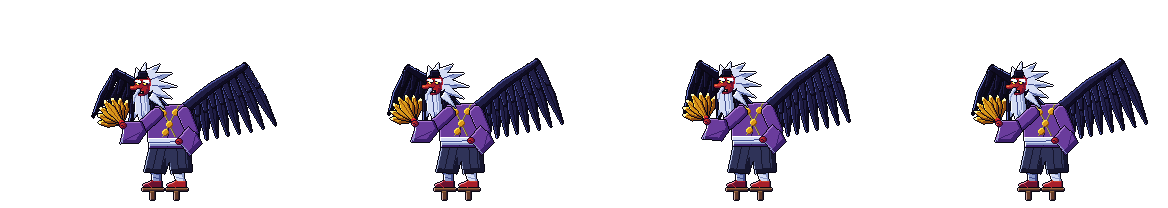
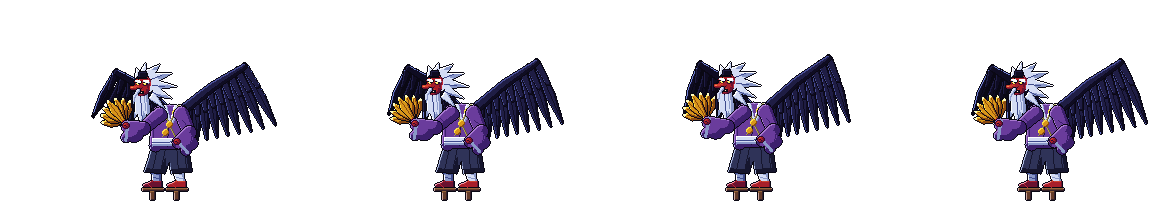
Sojobo überarbeitet: schlankeres Gewand mit V-Kragen und Falten, weich fallende Ärmel statt kantiger Blöcke
Claude-Session: https://claude.ai/code/session_01KhgxT7a5tRTGeQVFkHSAcV

diff --git a/art_src/fable/bosses_1/boss_sojobo.py b/art_src/fable/bosses_1/boss_sojobo.py
@@ -117,8 +117,8 @@ def geta_leg(c, knee, ank, far=False):
 
 DEF = dict(
     bob=0, lean=0, flap=0, beard=0,
-    fsh=(86, 64), felb=(70, 78), fhand=(54, 76), fanang=232,
-    nsh=(114, 63), nelb=(122, 82), nhand=(110, 92),
+    fsh=(89, 64), felb=(73, 78), fhand=(57, 76), fanang=232,
+    nsh=(111, 63), nelb=(119, 82), nhand=(108, 92),
     fknee=(86, 120), fank=(86, 131), nknee=(108, 120), nank=(110, 131),
     gust=0, arm_front=True,
 )
@@ -139,19 +139,24 @@ def sojobo(**kw):
 
     def sleeve_arm(sh_, el, ha, rp, far):
         p = C()
-        up = L(*sh_, 6.4, *el, 6.0)
-        p.form(up, rp, sd=2, hl=1)
+        up = L(*sh_, 7.0, *el, 6.2) | E(sh_[0], sh_[1] + 1, 7.5, 6.5)
+        p.form(up, rp, sd=4, hl=1)
+        q = lerp(sh_, el, 0.5)
+        p.line([(q[0] - 3, q[1] - 2), (q[0] + 2, q[1] + 3)], rp[0], only=up)          # Stoff-Falte
         c.stamp(p, 'K')
         p = C()
         d = (ha[0] - el[0], ha[1] - el[1]); n_ = math.hypot(*d) or 1
         nx, ny = -d[1] / n_, d[0] / n_
         if ny < 0:
             nx, ny = -nx, -ny
-        w = PG([(el[0] - nx * 6, el[1] - ny * 6), (ha[0] - nx * 4, ha[1] - ny * 4), (ha[0] + nx * 5, ha[1] + ny * 5),
-                (ha[0] + nx * 17 + d[0] / n_ * 2, ha[1] + ny * 17), (el[0] + nx * 14, el[1] + ny * 14), (el[0] + nx * 2 - d[0] / n_ * 5, el[1] + ny * 4)])
-        p.form(w, rp, sd=3, hl=1)
-        p.line([(ha[0] + nx * 15, ha[1] + ny * 15), (el[0] + nx * 5, el[1] + ny * 4)], rp[0], only=w)
-        p.line([(ha[0] - nx * 4, ha[1] - ny * 4), (ha[0] + nx * 16, ha[1] + ny * 16)], 'v1', only=w)   # white lining at the cuff
+        # weiter, herabhängender Ärmel: weich gerundet statt kantig
+        mid = lerp(el, ha, 0.55)
+        w = (L(*el, 6.6, *ha, 6.0) | E(mid[0] + nx * 7, mid[1] + ny * 7, 9.5, 7.5)
+             | L(mid[0] + nx * 4, mid[1] + ny * 4, 6.0, ha[0] + nx * 11, ha[1] + ny * 11, 5.0))
+        p.form(w, rp, sd=5, hl=1)
+        p.line([(el[0] + nx * 3, el[1] + ny * 6), (mid[0] + nx * 11, mid[1] + ny * 11)], rp[0], only=w)   # Faltenwurf
+        cuff = L(ha[0] - nx * 4, ha[1] - ny * 4, 1.6, ha[0] + nx * 14, ha[1] + ny * 14, 1.6)
+        p.fill(cuff & w, 'v1')                                            # weißes Futter am Ärmelsaum
         c.stamp(p, 'K')
         p = C()
         p.grid(int(ha[0]) - 4, int(ha[1]) - 3, FIST, LEG)
@@ -168,7 +173,7 @@ def sojobo(**kw):
     # hakama
     p = C()
     fk, nk = P(*S['fknee']), P(*S['nknee'])
-    hak = PG([B((81, 90)), B((119, 90)), (nk[0] + 13, nk[1] + 1), (nk[0] - 7, nk[1] + 3), B((99, 108)), (fk[0] + 8, fk[1] + 3),
+    hak = PG([B((84, 90)), B((116, 90)), (nk[0] + 13, nk[1] + 1), (nk[0] - 7, nk[1] + 3), B((99, 108)), (fk[0] + 8, fk[1] + 3),
               (fk[0] - 12, fk[1] + 1)])
     p.form(hak, HAK, sd=4, hl=1)
     for a_, b_ in ((B((88, 94)), (fk[0] - 4, fk[1])), (B((96, 94)), (fk[0] + 4, fk[1] + 1)), (B((106, 94)), (nk[0], nk[1] + 1)),
@@ -178,12 +183,17 @@ def sojobo(**kw):
 
     # ---- robe
     p = C()
-    robe = PG([B((85, 56)), B((112, 54)), B((122, 63)), B((121, 97)), B((79, 97)), B((77, 66))])
-    p.form(robe, PUR, sd=5, hl=1)
+    robe = (L(*B((89, 62)), 6.5, *B((85, 95)), 6.0) | L(*B((110, 61)), 6.5, *B((115, 95)), 6.0)
+            | PG([B((89, 56)), B((110, 55)), B((117, 98)), B((83, 98))]) | E(*B((99, 59)), 13, 5))
+    p.form(robe, PUR, sd=7, hl=1)
+    collar = PG([B((90, 55)), B((96, 55)), B((100, 70)), B((104, 55)), B((110, 55)), B((101, 76)), B((99, 76))])
+    p.form(collar & robe, WHT, sd=1, hl=1)                                   # weißer Kragen des Untergewands (V)
+    for a_, b_ in (((84, 66), (83, 92)), ((116, 66), (118, 92))):            # Faltenwurf an den Seiten
+        p.line([B(a_), B(b_)], 'p1', only=robe)
     p.line([B((92, 56)), B((98, 76)), B((97, 96))], 'p0', only=robe)
-    belt = PG([B((78, 88)), B((121, 87)), B((121, 95)), B((79, 96))])
+    belt = PG([B((82, 88)), B((118, 87)), B((118, 95)), B((82, 96))])
     p.form(belt, WHT, sd=2, hl=1)
-    p.line([B((78, 92)), B((121, 91))], 'v0', only=belt)
+    p.line([B((82, 92)), B((118, 91))], 'v0', only=belt)
     # yuigesa: sash with gold pom-poms
     for a_, b_ in (((90, 56), (104, 86)), ((108, 55), (92, 86))):
         p.line([B(a_), B(b_)], 'c1', only=robe); p.line([B((a_[0] + 1, a_[1])), B((b_[0] + 1, b_[1]))], 'c0', only=robe)
